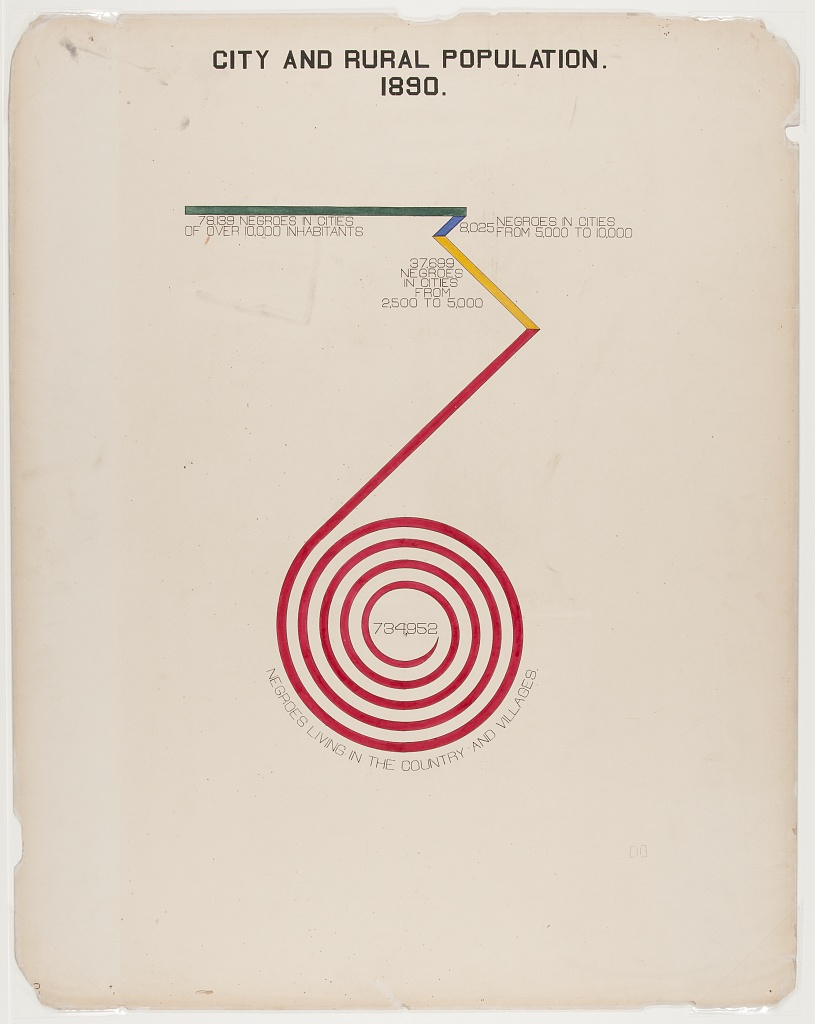
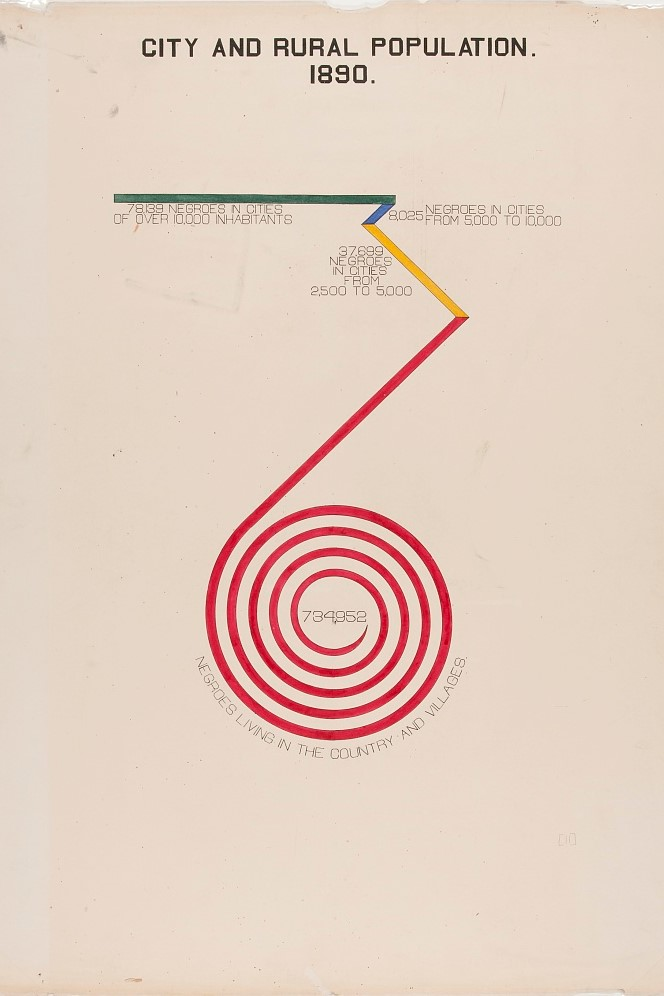
Commit challenge 6

Changed region(s): [[0.0, 0.0, 1.0, 1.0], [0.1506, 0.1867, 0.8133, 0.7781], [0.8133, 0.2179, 0.8434, 0.249]]

diff --git a/README.md b/README.md
@@ -32,6 +32,13 @@ Challenge 4</h3>
 </p>
 
 <h3 align="center">
+Challenge 6</h3>
+
+<p align="center">
+<img src="https://github.com/nrennie/dubois_challenge/blob/main/images/challenge_06.jpg?raw=true" width="50%"><img src="https://github.com/nrennie/dubois_challenge/blob/main/images/original_06.jpg?raw=true" width="50%">
+</p>
+
+<h3 align="center">
 Challenge 10</h3>
 
 <p align="center">
